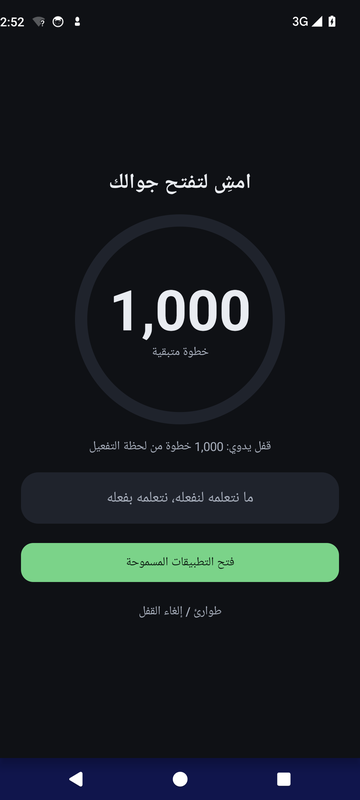
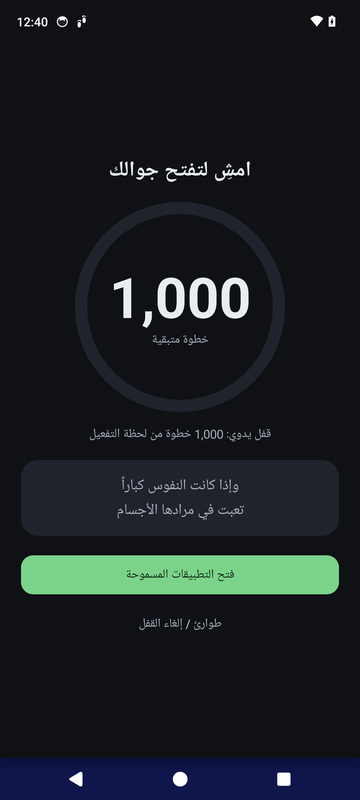
README for 0.6.0: optional account, 3-step lock setup, living background and poetry, group charts; fresh screenshots
Screenshots come from the green CI run of d1e6e9f (Home without leftover cards, and the group's
charts). DEVELOPERS.md: the account is the first setup screen, and the admin's reach is the paths
the rules list (not personal backups).

Claude-Session: https://claude.ai/code/session_01BBkAJwvFauh1QuPJP9u6uV

diff --git a/README.md b/README.md
@@ -16,7 +16,7 @@
 
 ## ما هو «خطوة»؟
 
-تطبيق مجاني يعدّ خطواتك كل يوم، ويقفل جوالك (ولابتوبك إن أردت) حتى تمشي عدداً محدداً من الخطوات. يعمل بلا إنترنت، ولا يرسل أي بيانات، ولا يحتاج حساباً.
+تطبيق مجاني يعدّ خطواتك كل يوم، ويقفل جوالك (ولابتوبك إن أردت) حتى تمشي عدداً محدداً من الخطوات. يعمل بلا إنترنت وبلا حساب. الحساب اختياري: يحفظ نسخة خاصة من بياناتك ويتيح المجموعات.
 
 ## التحميل
 
@@ -32,12 +32,15 @@
 1. نزّل ملف الـ APK على الجوال وافتحه. إن طُلب «السماح بالتثبيت من هذا المصدر» فاسمح به.
 2. إن حجبه **Play Protect** اختر «التثبيت على أي حال».
 3. افتح التطبيق واتبع شاشات الترحيب؛ تشرح كل صلاحية قبل طلبها.
-4. ليعمل القفل فعّل **خدمة الإتاحة** و**العرض فوق التطبيقات**. على أندرويد 13 فأعلى إن ظهر «إعداد مقيّد»: إعدادات الجوال ← التطبيقات ← خطوة ← النقاط الثلاث ← «السماح بالإعدادات المقيّدة».
+4. ليعمل القفل فعّل **خدمة الإتاحة** و**العرض فوق التطبيقات**. التطبيق يرشدك خطوة بخطوة، وعلى أندرويد 13 فأعلى تكون ثلاث خطوات بالترتيب:
+   1. الإتاحة ← التطبيقات المثبتة ← خطوة. تظهر رسالة «إعداد مقيّد»: اضغط «حسناً».
+   2. معلومات التطبيق ← النقاط الثلاث أعلى الشاشة ← «السماح بالإعدادات المقيّدة» ← أكّد.
+   3. ارجع إلى الإتاحة ← التطبيقات المثبتة ← خطوة، وفعّل الخدمة.
 5. على سامسونج: إعدادات التطبيق ← البطارية ← **غير مقيّد**، حتى لا يتوقف العدّ.
 
 ## الاستخدام
 
-- **الرئيسية:** خطوات اليوم والهدف، وأزرار القفل (1000 / 2000 / 3000 خطوة). يُفتح الجوال تلقائياً عندما تمشيها.
+- **الرئيسية:** خطوات اليوم والهدف، وأزرار القفل (1000 / 2000 / 3000 خطوة). يُفتح الجوال تلقائياً عندما تمشيها. الخلفية منظر متحرك يتغيّر مع وقت اليوم، وتحت الخطوات بيت من الشعر العربي مع اسم شاعره.
 - **الإحصائيات:** اسحب شريط الأيام يميناً ويساراً لترى كل يوم، وتحته المخططات.
 - **الإعدادات:** الهدف، القفل المجدول اليومي، التطبيقات المسموحة أثناء القفل، اللغة، والمظهر.
 - **الحساب:** أول شاشة عند فتح التطبيق (ويمكن التخطي)، أو لاحقاً من الإعدادات ← الحساب. بلا حساب تبقى بياناتك على الجوال فقط، ونقلها مسؤوليتك عبر الإعدادات ← النسخة الاحتياطية. سجّل ببريدك وكلمة مرور فتُحفظ نسخة خاصة من بياناتك في حسابك تلقائياً كل يوم (لا يراها غيرك). إن حذفت التطبيق أو غيّرت جوالك، سجّل الدخول فتعود بياناتك.
@@ -59,14 +62,16 @@
 
 ## المجموعات (اختياري)
 
-من تبويب **المجموعات** (بنفس الحساب): أنشئ مجموعة وشارك كود الدعوة مع أصدقائك، وتنافسوا على الخطوات. الميزة مطفأة حتى تفعّلها، وعندها تُرسل اسمك المستعار وأرقام خطواتك فقط؛ بريدك للدخول فقط ولا يراه أحد من الأعضاء. نسيت كلمة المرور؟ زر «نسيت كلمة المرور؟» يرسل رابطاً إلى بريدك.
+<p align="center"><img src="docs/screenshots/groups.png" width="220" alt="رسوم المجموعة"></p>
+
+من تبويب **المجموعات** (تحتاج حساباً): أنشئ مجموعة وشارك كود الدعوة مع أصدقائك، وتنافسوا على الخطوات. الأرقام تتحدّث أثناء المشي، وفي صفحة المجموعة رسوم: كم عضواً حقق هدف اليوم، ومجموع آخر 7 أيام، وخطوات كل عضو. الميزة مطفأة حتى تفعّلها، وعندها تُرسل اسمك المستعار وأرقام خطواتك فقط؛ بريدك للدخول فقط ولا يراه أحد من الأعضاء. نسيت كلمة المرور؟ زر «نسيت كلمة المرور؟» يرسل رابطاً إلى بريدك.
 
 ## أسئلة سريعة
 
-- **القفل لا يعمل؟** افتح التطبيق واضغط زر تنبيه «القفل لا يعمل»، أو راجع الإعدادات ← حالة الصلاحيات.
+- **القفل لا يعمل؟** في الرئيسية، تحت تنبيه «القفل لا يعمل»، اضغط «كيف أفعّله؟» واتبع الخطوات الثلاث. أو راجع الإعدادات ← حالة الصلاحيات.
 - **الخطوات لا تُعدّ؟** الجوال يجب أن يكون معك أثناء المشي. راجع الإعدادات ← حالة الصلاحيات، وقيود البطارية على سامسونج.
 - **اللابتوب يرفض الكود؟** اكتب الكود الظاهر الآن في الرئيسية (لكل قفل كود جديد). إن أعدت توليد كود الاقتران فأعد الاقتران في اللابتوب.
-- **نقلت إلى جوال جديد؟** الإعدادات ← النسخة الاحتياطية ← تصدير، ثم استيراد في الجوال الجديد.
+- **نقلت إلى جوال جديد؟** إن كان لديك حساب: سجّل الدخول فتعود بياناتك ومجموعاتك. بلا حساب: الإعدادات ← النسخة الاحتياطية ← تصدير، ثم استيراد في الجوال الجديد.
 
 ---
 

diff --git a/docs/DEVELOPERS.md b/docs/DEVELOPERS.md
@@ -48,7 +48,7 @@
 
 ## الحساب والنسخة السحابية
 
-- الحساب اختياري (الإعدادات ← الحساب، آخر خطوة في الترحيب، أو تبويب المجموعات): بريد وكلمة مرور عبر Firebase Auth.
+- الحساب اختياري (أول شاشة في الترحيب ويمكن تخطيها، أو الإعدادات ← الحساب، أو تبويب المجموعات): بريد وكلمة مرور عبر Firebase Auth.
 - عند تسجيل الدخول تُحفظ نسخة من ملف النسخ الاحتياطي (gzip + base64) في `users/{uid}/backup/latest`، ثم يومياً (`CloudBackupWorker`). القواعد تسمح بها لصاحبها فقط، حتى المشرف لا يقرؤها.
 - بعد إعادة التثبيت: تسجيل الدخول في الترحيب يسترجعها فوراً؛ من الإعدادات يسأل التطبيق أولاً لأنها تستبدل بيانات الجوال.
 
@@ -57,7 +57,7 @@
 - لوحة الإشراف تظهر (الإعدادات ← الحساب، وتبويب المجموعات) لمن يملك وثيقة `admins/{uid}`. تُنشأ الوثيقة مرة واحدة من التطبيق بكتابة «كلمة مرور الإشراف».
 - كلمة المرور يختارها المشرف من لوحة الإشراف: تُحفظ بصمتها فقط في `config/admin.keySha256`. قبل ذلك تُقبل بصمة المفتاح المؤقت `adminKeySha256()`، وبعدها لا.
 - في `firebase/firestore.rules` بصمة SHA-256 للمفتاح فقط (`adminKeySha256()`)، لا المفتاح نفسه، ولا رقم ولا بريد. القواعد تقبل إنشاء الوثيقة فقط إن طابقت بصمةُ المفتاح المكتوب البصمةَ المحفوظة.
-- المشرف يقرأ ويعدّل كل شيء (`match /{path=**}` مع `isAdmin()`): كل المجموعات حتى المخفية، الأعضاء، الأرقام، الملفات الشخصية، أكواد الدعوة.
+- المشرف يقرأ ويعدّل (`isAdmin()`): `groups/**` (كل المجموعات حتى المخفية، الأعضاء، الأرقام، أيام الرسم)، `invites/**`، `admins/**`، `config/**`، والملفات الشخصية `users/{uid}` وعضوياتها. النسخة السحابية `users/{uid}/backup` ليست منها.
 - الاختبارات (`firebase/tests` وCI) تستبدل البصمة ببصمة مفتاح اختبار معروف في نسخة مؤقتة من القواعد.
 - إن ضاعت كلمة المرور: احذف وثيقة `config/admin` من لوحة Firebase، فيعود المفتاح المؤقت صالحاً (أو ضع بصمة مفتاح جديد في `adminKeySha256()` وانشر القواعد).
 
